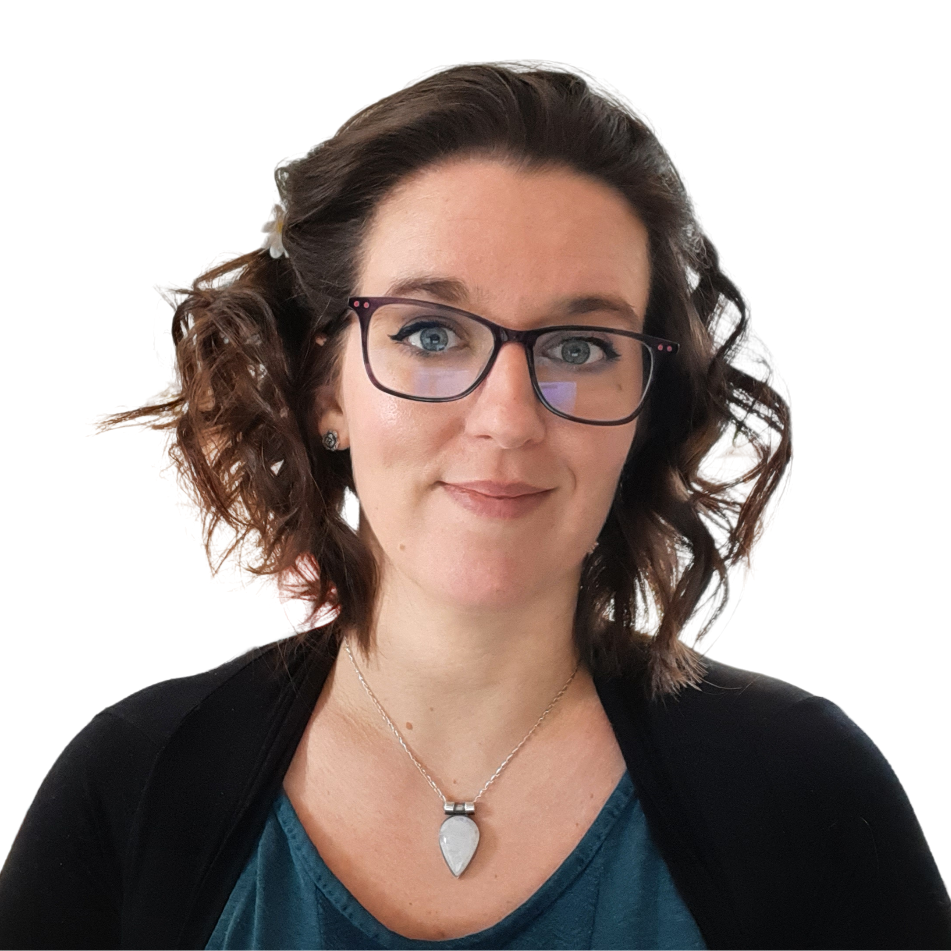
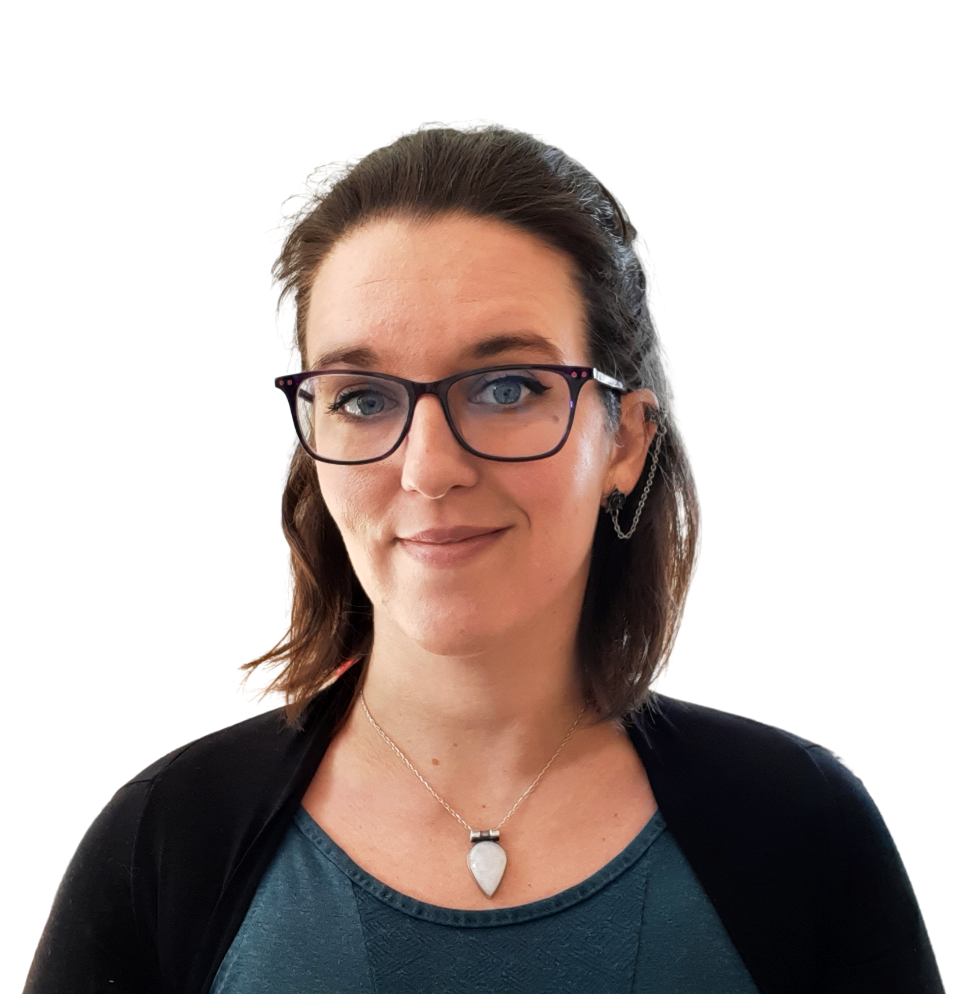
update PP and CV

diff --git a/src/components/Header/Header.module.css b/src/components/Header/Header.module.css
@@ -7,9 +7,9 @@
   }
 
 
-  .logo>img {
-    height: 60px;
-  }
+.logo>img {
+  height: 60px;
+}
 
 .close{
   cursor: pointer;
@@ -19,26 +19,25 @@
 }
 
 
-  @media screen and (min-width: 992px) {
+@media screen and (min-width: 992px) {
 
-    .header{
-      height: 100vh;
-      flex-direction: column;
+  .header{
+    height: 100vh;
+    flex-direction: column;
 
-    }
-    .logo{
-        text-align: center;
-      }
-    .logo>img {
-        /* max-width: 240px; */
-        width: 75%;
-        height: auto;
-      }
-    .picture>img{
-      width: 180px;
-      margin: 20px;
-      border: 4px solid #000000;
-      border-radius: 50%;
-      box-shadow: rgba(0, 0, 0, 0.07) 0px 1px 2px, rgba(0, 0, 0, 0.07) 0px 2px 4px, rgba(0, 0, 0, 0.07) 0px 4px 8px, rgba(0, 0, 0, 0.07) 0px 8px 16px, rgba(0, 0, 0, 0.07) 0px 16px 32px, rgba(0, 0, 0, 0.07) 0px 32px 64px;
-    }
   }
+  .logo{
+      text-align: center;
+    }
+  .logo>img {
+      width: 75%;
+      height: auto;
+    }
+  .picture>img{
+    width: 200px;
+    margin: 20px;
+    border: 4px solid #000000;
+    border-radius: 50%;
+    box-shadow: rgba(0, 0, 0, 0.07) 0px 1px 2px, rgba(0, 0, 0, 0.07) 0px 2px 4px, rgba(0, 0, 0, 0.07) 0px 4px 8px, rgba(0, 0, 0, 0.07) 0px 8px 16px, rgba(0, 0, 0, 0.07) 0px 16px 32px, rgba(0, 0, 0, 0.07) 0px 32px 64px;
+  }
+}

diff --git a/src/components/Navigation/Navbar.js b/src/components/Navigation/Navbar.js
@@ -16,7 +16,7 @@ const Navbar = props =>{
                     <NavLink to='/contact' onClick={props.onClick} className={({isActive})=>isActive? classes.active : undefined} end>contact</NavLink>
                 </li>
                 <li className={classes.navlink}>
-                    <a href='https://drive.google.com/file/d/1hwrDqEue5ESIqSHkR5ewo_Znx4A7g1dJ/view?usp=sharing' target="blank">cv</a>
+                    <a href='https://drive.google.com/file/d/1yk-izB7oVdMPdUXMfT9_V3CW5vfgVlnJ/view?usp=sharing' target="blank">cv</a>
                 </li>
             </ul>
         </nav>
